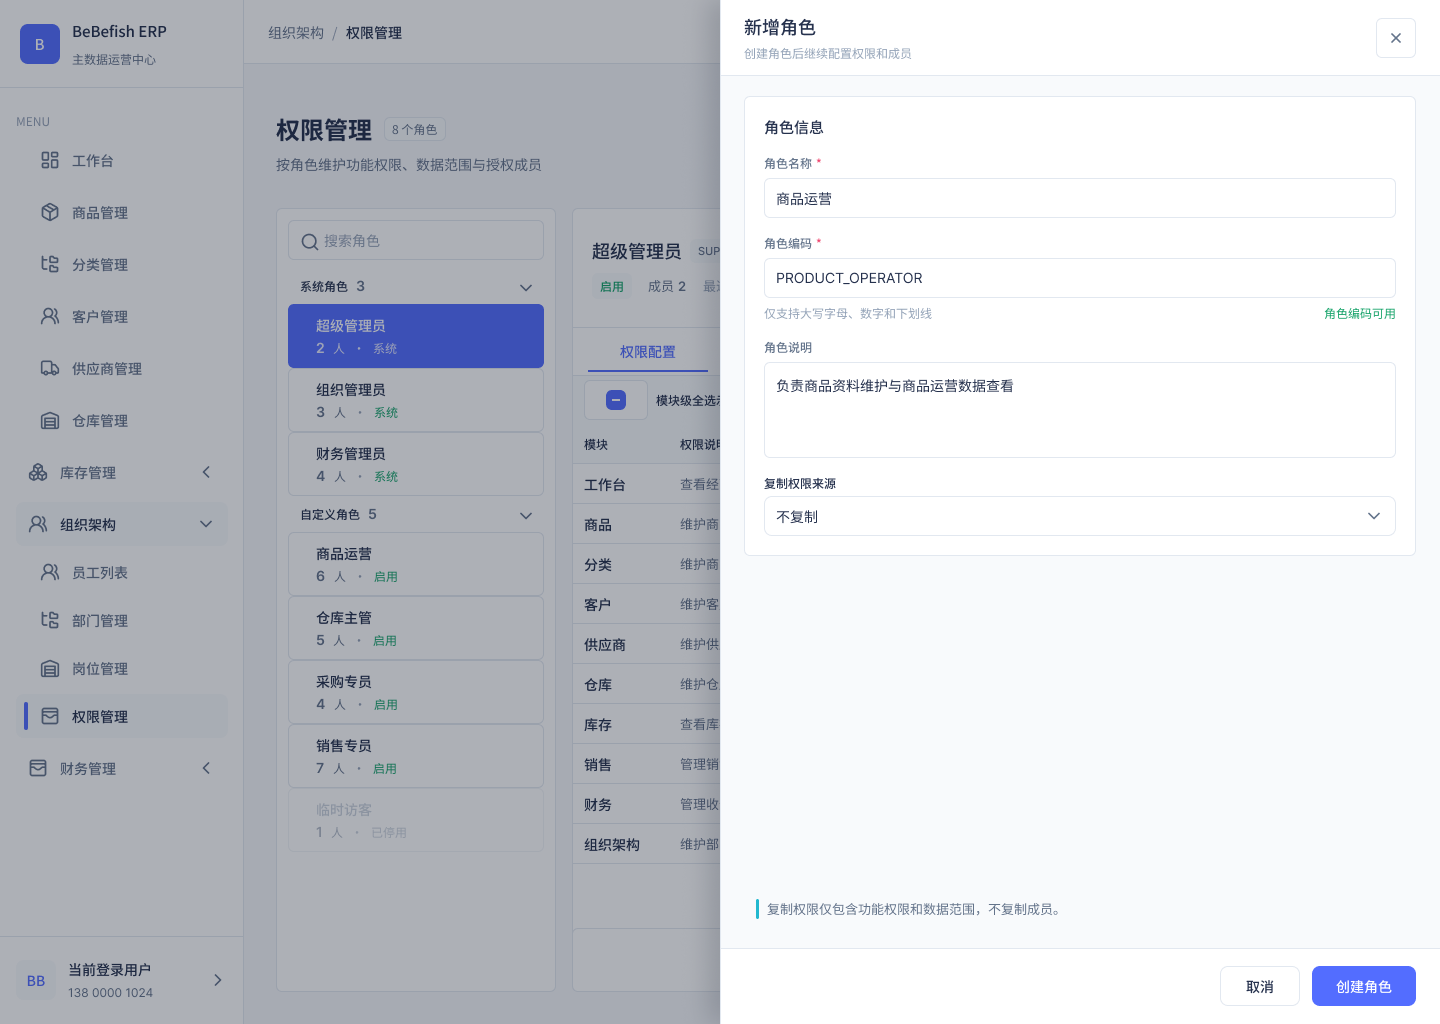
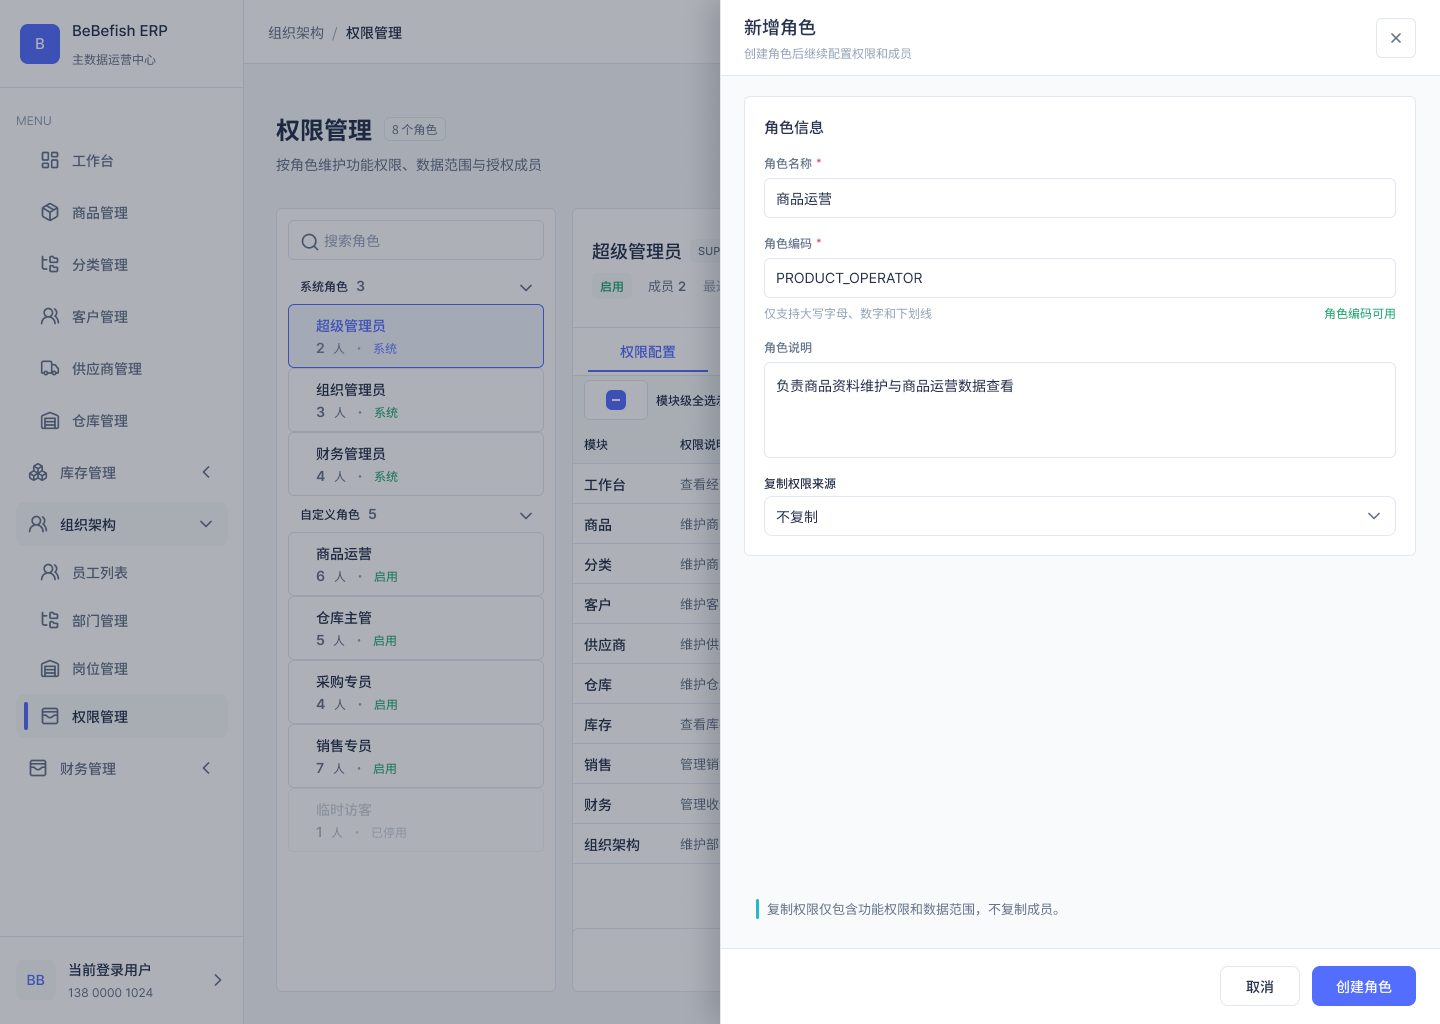
fix: align permission management prototype evidence

Changed region(s): [[0.1875, 0.2812, 0.375, 0.375], [0.0625, 0.0, 0.125, 0.0312]]

diff --git a/docs/superpowers/plans/2026-09-04-permission-management-figma-prototype.md b/docs/superpowers/plans/2026-09-04-permission-management-figma-prototype.md
@@ -592,5 +592,17 @@ Provide the user with the Figma prototype URL, the four local screenshot links, 
 - Final-QA Figma mutations created no nodes. Font corrections: 11 final member text overrides `I622:13142;621:13947;615:12381;546:10706`, `I622:13142;621:13947;615:12402;546:10685`, `I622:13142;621:13947;615:12402;546:10686`, `I622:13142;621:13947;615:12423;546:10685`, `I622:13142;621:13947;615:12423;546:10686`, `I622:13142;621:13947;615:12444;546:10685`, `I622:13142;621:13947;615:12444;546:10686`, `I622:13142;621:13947;615:12465;546:10685`, `I622:13142;621:13947;615:12465;546:10686`, `I622:13142;621:13947;615:12486;546:10685`, and `I622:13142;621:13947;615:12486;546:10686` now use Noto Sans SC Medium; sidebar phone source `584:11833` and drawer role code `628:13966` now use Inter Regular.
 - Remaining exact mutations: locked-action container `617:12514` is vertical `124x36` at `700,14`; action `617:12515` uses secondary text token `VariableID:6:11`, with reason `617:12516` on the second line. Member-tab names `621:12559` and `621:12560` now match their authoritative Default/Active variants. Workspace set `641:14385` is compacted to `1696x784` at `1600,3000`, with editable variant `641:13966` at `0,0` and super-admin variant `562:10728` at `860,0`.
 - Original-scale visual inspection found no overlapping text, clipped headers, hidden rows, action-bar obstruction, inconsistent select styling, horizontal overflow, mismatched panel heights, editor chrome, or browser chrome. Protected organization section `499:9745` and frame `499:9746` retain their accepted geometry and children.
[1 lines of base64/hex data omitted]
-- Deliberate deviations from the approved specification: `0`. Concerns: none.
[1 lines of base64/hex data omitted]
+- Deliberate deviations from the approved specification after Fix Round 1: `0`. Concerns: none.
+
+#### Fix Round 1
+
+- Status: `DONE`. This section supersedes the earlier no-created-node mutation statement and the original export hashes above it.
+- Selected-role root cause and repair: Figma presentation did not preserve paint-level `0.08` opacity through the variable-driven variant swap, while selected Super Admin instances retained stale unbound white text. Component `539:10689` now has no container fill and instead contains new absolute background rectangle `669:14193`, `256x64`, bound to `Color/Brand/Primary` (`VariableID:6:5`) with node opacity `0.08` and radius `VariableID:6:26`. Component ancestry remains `539:10689` -> `Permissions/Role List Item` (`539:10722`).
+- Readable selected-instance bindings: matrix instance `576:11698` and drawer-underlay instance `626:13270` remain instances of `539:10689`. Ten stale white text overrides were rebound: `I576:11698;539:10692`, `I576:11698;539:10694`, `I576:11698;539:10695`, `I576:11698;539:10696`, `I576:11698;539:10697`, `I626:13270;539:10692`, `I626:13270;539:10694`, `I626:13270;539:10695`, `I626:13270;539:10696`, and `I626:13270;539:10697`. Role name/status use brand `VariableID:6:5`, member metadata uses secondary `VariableID:6:11`, and separators use muted `VariableID:6:12`.
+- Typography repair: permission-sidebar source texts `584:11814` (`B`), `584:11816` (`BeBefish ERP`), `584:11819` (`MENU`), and `584:11830` (`BB`) now use Inter Medium/Regular with `0px` letter spacing. Member paginator override `I622:13142;621:13947;615:12508;66:449;66:415` (`1`) now uses Inter Medium with `0px` letter spacing. All source nodes are inside permission section `538:10667`; protected organization sources were not touched.
+- Scoped post-fix typography gate inspected `644` visible text nodes across the four deliverables: `82` ASCII-only English/number nodes, `497` Chinese/mixed-label nodes, `0` font-family mismatches, and `0` nonzero letter-spacing nodes. The pre-fix gate had `17` mismatches: four sidebar strings in each frame plus the member paginator.
+- Frame and ancestry readback: `572:11100` is `Permission Management / Permission Matrix`; `600:11953` is `Permission Management / Data Scope`; `622:12746` is `Permission Management / Member Management`; `626:13258` is `Permission Management / Create Role Drawer`. Each is a direct child of `538:10667`, exactly `1440x1024`, and retains permission-sidebar, topbar, and workspace component ancestry.
+- Fresh presentation replay after the final mutation started at `572:11100` with selected, readable Super Admin and read-only permissions; Add Role opened `626:13258` with a readable selected underlay; Create executed the three variable actions and returned to `572:11100` with Product Operations selected and the editable unchecked permission matrix visible.
+- All four final Figma frames were exported again from the exact final screenshot assets. Original-scale inspection confirmed no blank selected-role text, overlap, clipping, vertical matrix rails, horizontal overflow, hidden final rows, or action-bar obstruction. The refreshed dimensions, byte sizes, and SHA-256 hashes are recorded in the export line immediately above.
+- Protected organization section `499:9745` remains at `22720,0`, `4800x2368`, with children `499:9746`, `499:9909`, `499:10072`, `499:10235`, and `499:10398`; frame `499:9746` remains `1440x1024`.
